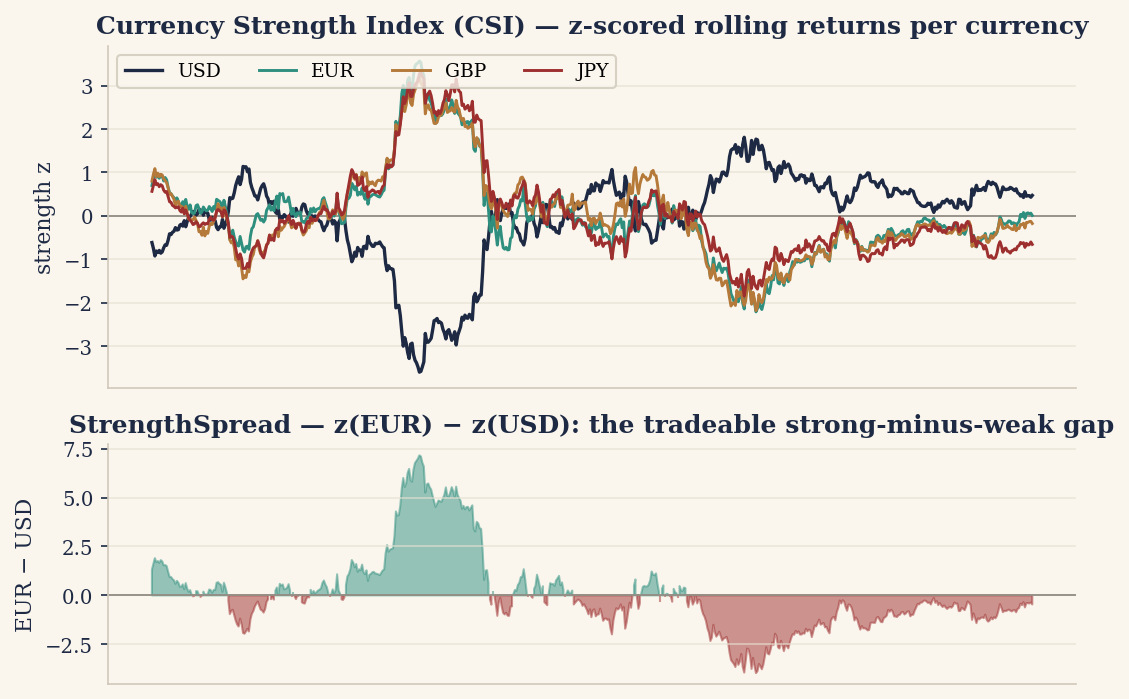
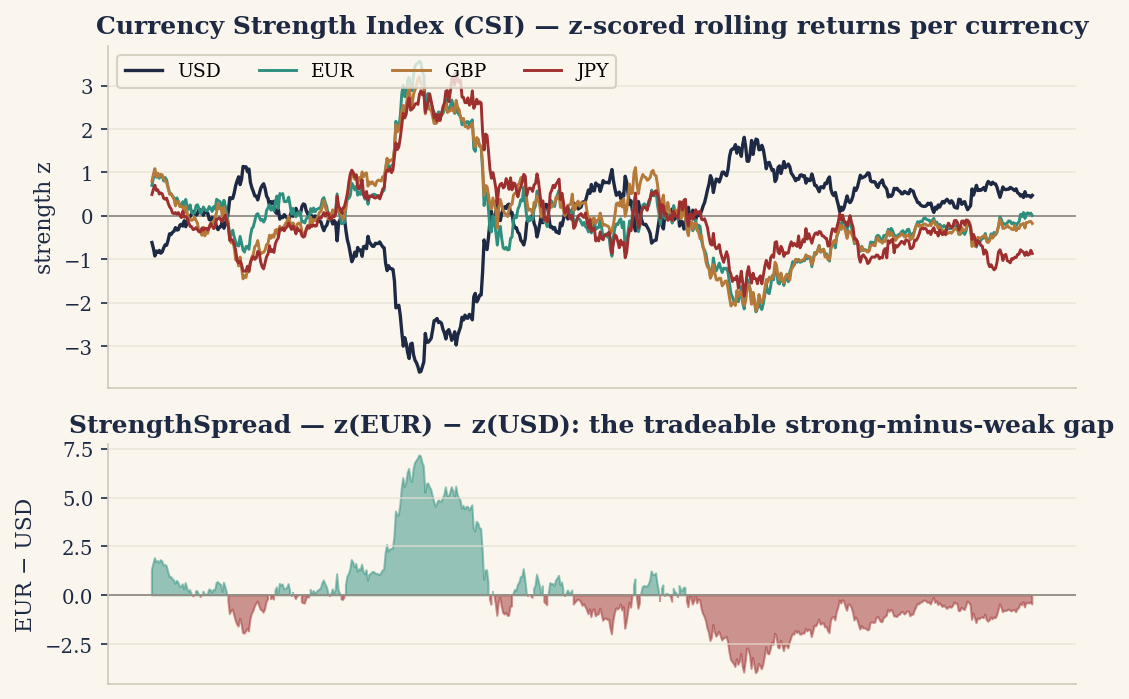
site(glossary): plate audit — Hurst estimator fixed + 3 other repairs; all 10 generated plates verified against their own claims
- rolling_hurst: was computing the structure-function scaling on the
  once-differenced return series instead of the cumulative log-price
  level. Returns are ~white noise, so re-differencing them washes out
  the scaling signal entirely -> H flatlined ~0.0 against the 0.5
  reference line. Fixed to operate on log(price); series now oscillates
  realistically around 0.5 (~0.33-0.7) on the FX M5 sample.
- fisher(): the recursive Value state was clamped only in a local copy
  used for the log call, letting the true feedback term drift past the
  intended ±0.999 bound (up to ~1.5) and artificially widen the
  flat-topped plateaus. Now clamps the state itself, matching Ehlers'
  canonical formula.
- currency-strength JPY line double-counted the USD composite
  (jpy = -usdjpy - usd), gluing JPY's series to EUR/GBP's. JPY appears
  in exactly one pair as the quote currency, so its strength is just
  -usdjpy, same pattern as the other degree-1 currencies.
- Hurst/VR panel captions now sit on an opaque backing patch instead of
  a fixed axes-fraction offset, since a correctly-oscillating Hurst
  series has no reliably empty corner to place bare text in.
- ADX + meanrev annotation transAxes placement (in-flight before this
  session) verified visually clean; remaining 6 plates (trend overlays,
  MC confluence, P&F, SuperTrend, Kalman, session levels) audited
  against their titles/annotations, no defects found.

Claude-Session: https://claude.ai/code/session_01HGoFFWsyhG5Htfyqwa7rHb

diff --git a/docs/experiments/build_term_charts.py b/docs/experiments/build_term_charts.py
@@ -218,9 +218,14 @@ def fisher(p=10):
         hh = med[i - p + 1:i + 1].max()
         ll = med[i - p + 1:i + 1].min()
         rng = max(hh - ll, 1e-9)
-        val[i] = 0.66 * (2 * (med[i] - ll) / rng - 0.5) + 0.34 * val[i - 1]
-        v = min(max(val[i], -0.999), 0.999)
-        out[i] = 0.5 * np.log((1 + v) / (1 - v)) + 0.5 * out[i - 1]
+        raw = 0.66 * (2 * (med[i] - ll) / rng - 0.5) + 0.34 * val[i - 1]
+        # Clamp the *recursive state itself* (Ehlers' canonical form), not
+        # just a local copy used for the log call. Clamping only the copy
+        # let val[i-1] feed back unbounded (up to ~1.5), which kept val
+        # pinned above the clamp for extra bars each swing and dragged the
+        # output into an artificially wide, flat-topped plateau.
+        val[i] = min(max(raw, -0.999), 0.999)
+        out[i] = 0.5 * np.log((1 + val[i]) / (1 - val[i])) + 0.5 * out[i - 1]
     return out
 
 
@@ -235,11 +240,19 @@ def williams_r(p=14):
 
 
 def rolling_hurst(win=128):
-    lr = np.diff(np.log(C), prepend=np.log(C[0]))
+    """Generalized Hurst exponent via the aggregated-variance / structure-
+    function method: regress log(sqrt(E[(logP[t+lag]-logP[t])^2])) on
+    log(lag). Must run on the *cumulative* log-price level series, not on
+    the once-differenced returns -- returns are already ~white noise, so
+    differencing them again measures the scaling of a second difference,
+    which is flat in lag regardless of the underlying process (H≈0
+    always). Operating on the level series recovers the real exponent
+    (≈0.5 for a random walk, <0.5 mean-reverting, >0.5 trending)."""
+    logp = np.log(C)
     out = np.full(N, np.nan)
     lags = np.array([2, 4, 8, 16, 32])
     for i in range(win, N):
-        w = lr[i - win:i]
+        w = logp[i - win:i]
         tau = []
         for lag in lags:
             d = w[lag:] - w[:-lag]
@@ -336,7 +349,7 @@ def fig_adx_dmi():
     a2.plot(x, pdi[sl], color=TEAL, lw=1.3, ls="--", label="+DI")
     a2.plot(x, mdi[sl], color=RED, lw=1.3, ls="-.", label="−DI")
     a2.axhline(25, color=GREY, lw=0.9, ls=":")
-    a2.text(1, 26, "ADX > 25 = trending", color=GREY, fontsize=8)
+    a2.text(0.98, 0.55, "ADX > 25 = trending", color=GREY, fontsize=8, ha="right", va="bottom", transform=a2.transAxes)
     a2.set_ylabel("0–100"); a2.set_xticks([])
     a2.legend(loc="upper left", ncol=3)
     finish(fig, "gen_adx_dmi.png")
@@ -454,7 +467,12 @@ def fig_currency_strength():
     usdjpy = roll(lr["USD_JPY"])
     # USD strength ≈ −(EUR/USD, GBP/USD, AUD/USD moves) + USD/JPY move
     usd = (-(eur + gbp + aud) + usdjpy) / 4
-    jpy = -usdjpy - usd  # JPY weakens when USD/JPY up
+    # JPY appears in exactly one pair (USD_JPY, as the quote currency), so
+    # its strength is just the sign-flipped pair return -- same pattern as
+    # EUR/GBP above. Subtracting `usd` here was double-counting: usd is
+    # itself built from usdjpy plus eur/gbp/aud, so it re-injected EUR/GBP
+    # into JPY's own series and glued JPY's line to EUR/GBP's on the chart.
+    jpy = -usdjpy  # JPY weakens when USD/JPY up
     def z(a):
         return (a - np.nanmean(a)) / (np.nanstd(a) + 1e-12)
     zeur, zusd, zgbp, zjpy = z(eur), z(usd), z(gbp), z(jpy)
@@ -521,11 +539,15 @@ def fig_meanrev_stats():
     axes[0].set_ylabel("EUR/USD"); axes[0].set_xticks([])
     axes[1].axhline(0.5, color=GREY, lw=0.9, ls=":")
     axes[1].plot(x, hu[sl], color=BLUE, lw=1.4)
-    axes[1].text(1, 0.52, "0.5 = random walk; <0.5 mean-revert; >0.5 trend", color=GREY, fontsize=8)
+    # A real (post-fix) Hurst series oscillates through the full panel
+    # height, so no axes-fraction corner is reliably clear of the line --
+    # give the caption an opaque backing patch rather than chase empty space.
+    note_box = dict(facecolor=BG, edgecolor="none", alpha=0.85, pad=2.0)
+    axes[1].text(0.98, 0.06, "0.5 = random walk; <0.5 mean-revert; >0.5 trend", color=GREY, fontsize=8, ha="right", va="bottom", transform=axes[1].transAxes, bbox=note_box, zorder=5)
     axes[1].set_ylabel("Hurst H"); axes[1].set_xticks([])
     axes[2].axhline(1.0, color=GREY, lw=0.9, ls=":")
     axes[2].plot(x, vr[sl], color=GOLD, lw=1.4)
-    axes[2].text(1, 1.02, "VR<1 = mean-reverting; VR>1 = trending", color=GREY, fontsize=8)
+    axes[2].text(0.98, 0.06, "VR<1 = mean-reverting; VR>1 = trending", color=GREY, fontsize=8, ha="right", va="bottom", transform=axes[2].transAxes, bbox=note_box, zorder=5)
     axes[2].set_ylabel("VR(4)"); axes[2].set_xticks([])
     finish(fig, "gen_meanrev_stats.png")
 
